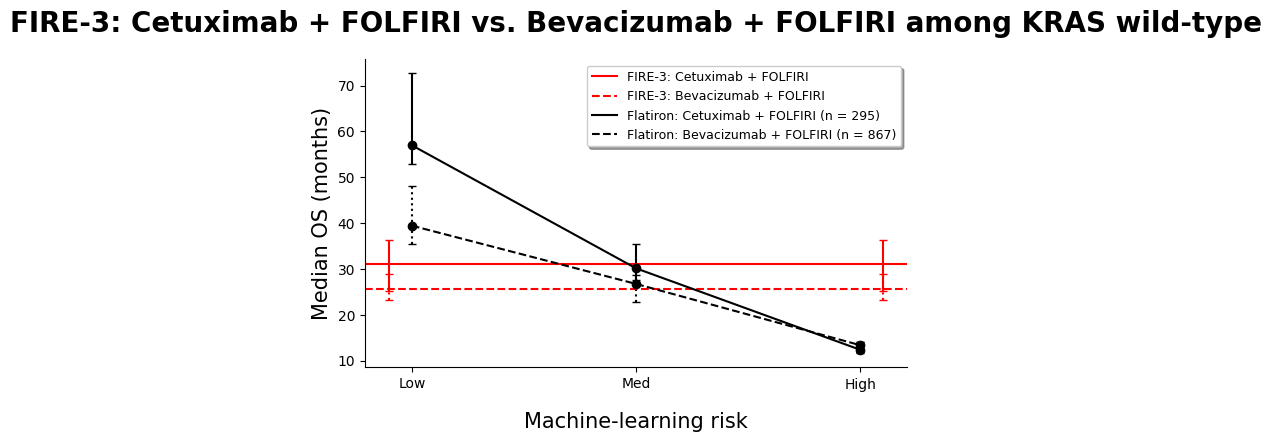
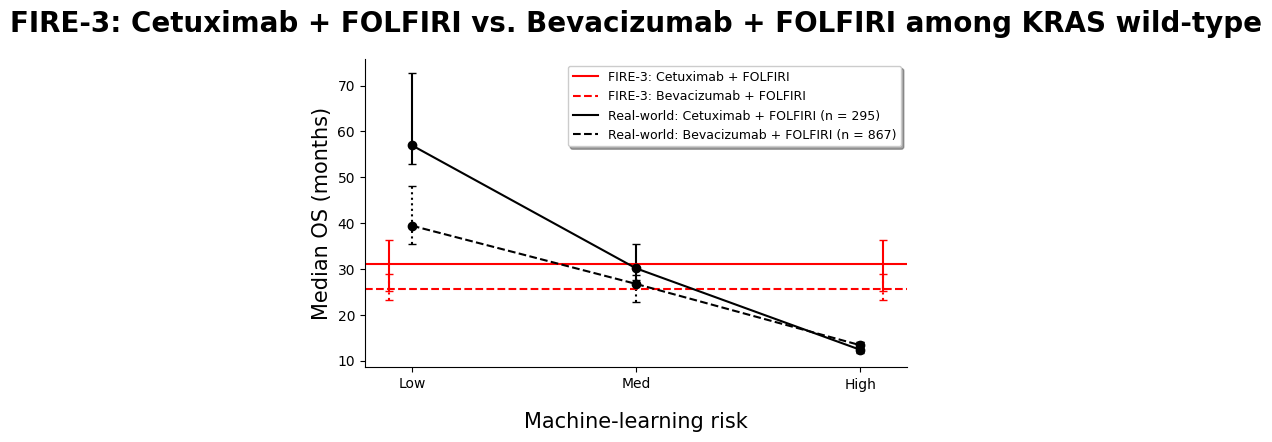
updated summary plots
Flatiron -> Real-world

Changed region(s): [[0.4292, 0.1471, 0.7052, 0.3235], [0.4292, 0.3235, 0.4599, 0.3529]]

diff --git a/app/templates/forms/colorectal-form.html b/app/templates/forms/colorectal-form.html
@@ -21,7 +21,7 @@
             <ul>
               <li>Only the first 3 sections need to be completed, however, more information will improve survival estimates.</li>
               <li>Enter the variable value closest to time of metastatic diagnosis, ideally within 30 days.</li>
-              <li>The top 5 most predictive variables for the prostate machine learning model were: (1) change in weight, (2) age, (3) albumin, (4) ECOG, and (5) ALP.</li>
+              <li>The top 5 most predictive variables for the prostate machine learning model were: (1) change in weight, (2) age, (3) albumin, (4) ALP, and (5) CEA.</li>
             </ul>
           </div>
     
